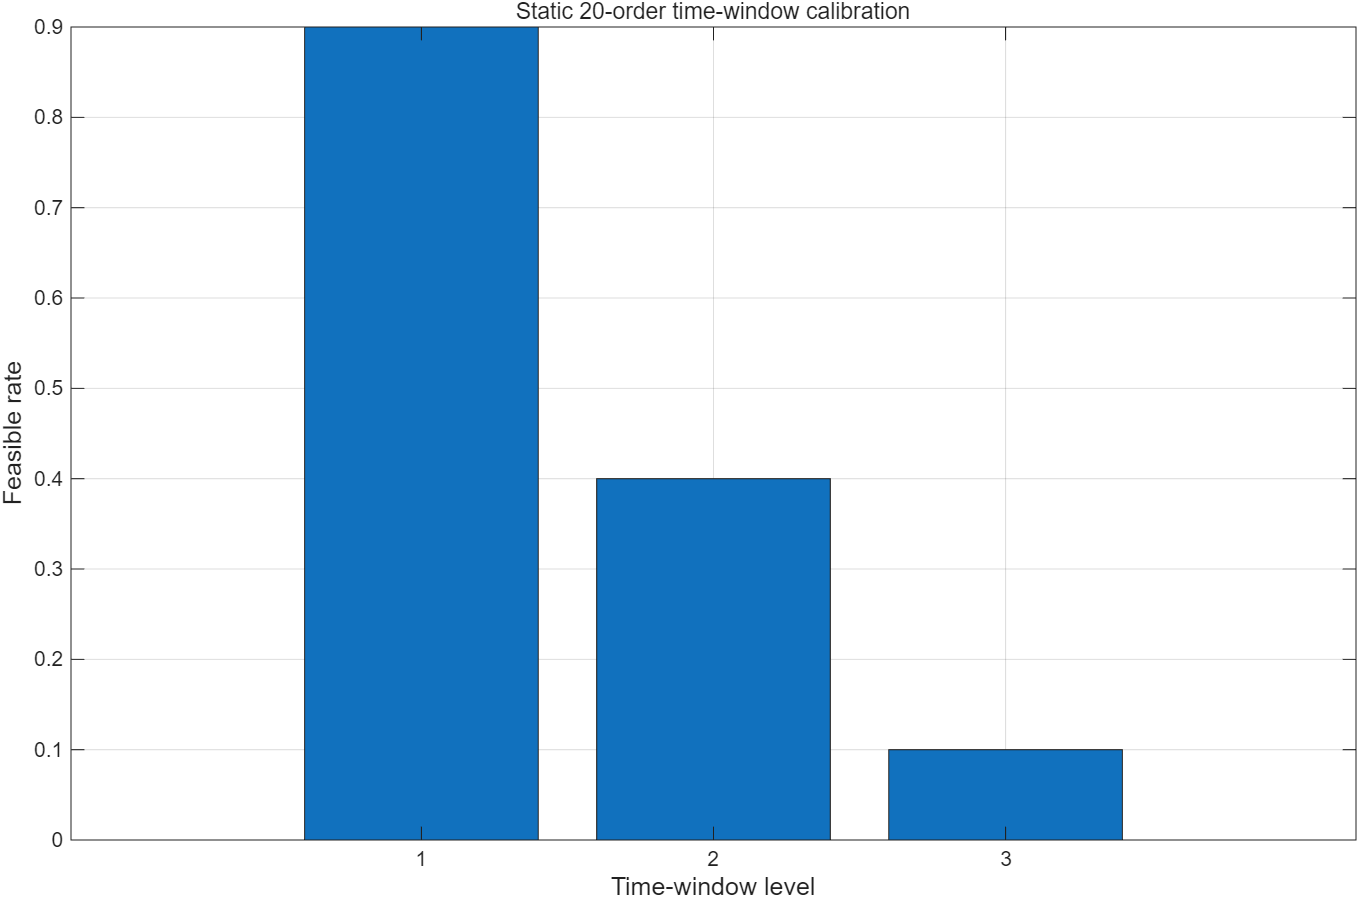
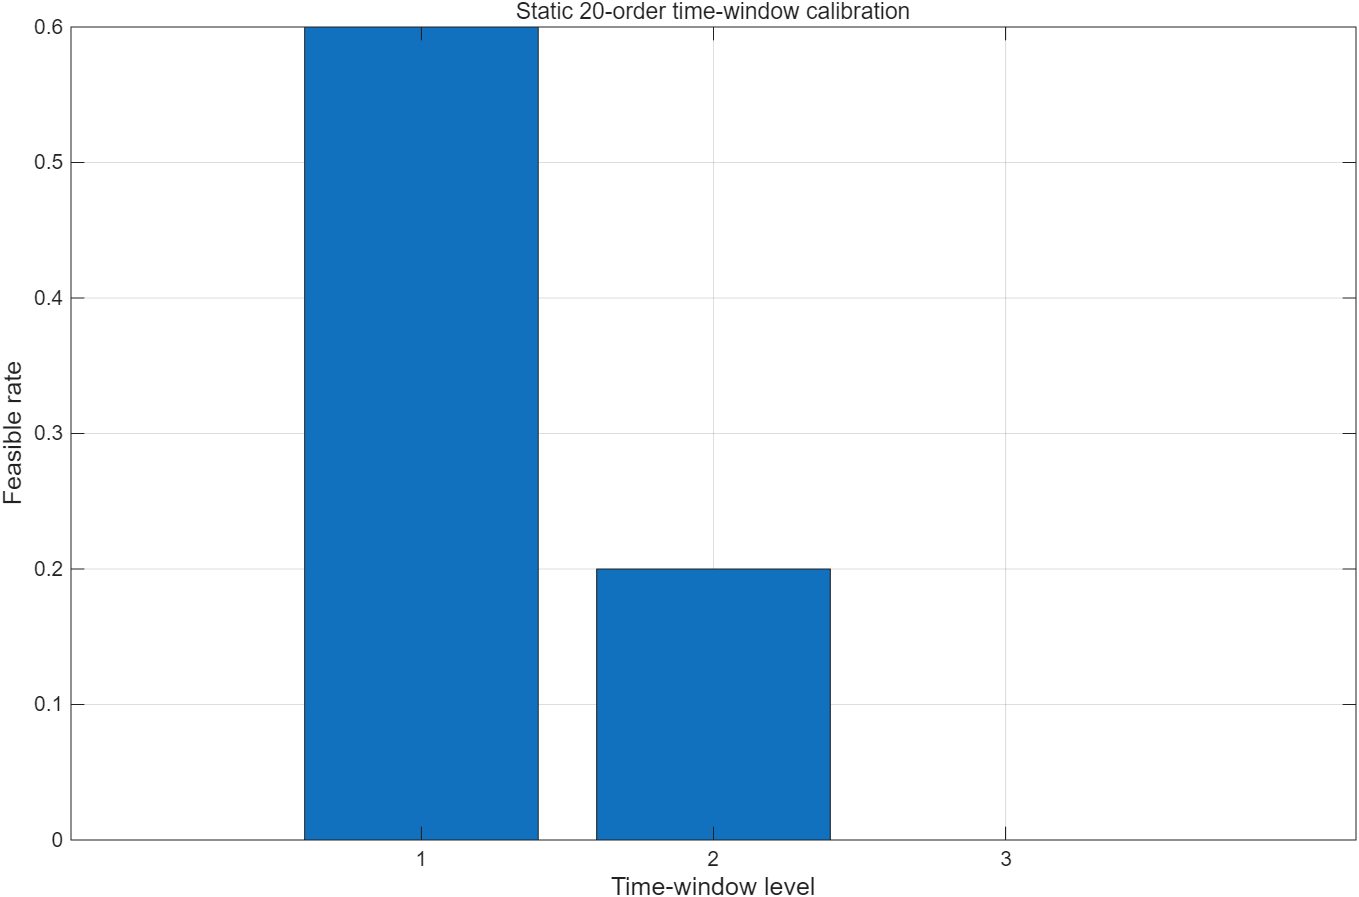
Strengthen terrain and obstacle baseline

diff --git a/main.m b/main.m
@@ -75,4 +75,38 @@ fprintf('Post-event orders:  %d\n',length(eventState.activeIDs));
 fprintf('Post-event cost:    %.3f\n',Best1.Cost);
 fprintf('Post-event distance:%.3f\n',Best1.Detail.distance);
 fprintf('Post-event late:    %.3f\n',Best1.Detail.totalLate);
+nDetour0 = 0;
+nTerrain0 = 0;
+nObstacle0 = 0;
+for i = 1:length(Best0.Detail.paths)
+    if size(Best0.Detail.paths{i}.points,1) > 2
+        nDetour0 = nDetour0 + 1;
+    end
+    if Best0.Detail.paths{i}.directTerrainViolation > 0
+        nTerrain0 = nTerrain0 + 1;
+    end
+    if Best0.Detail.paths{i}.directObstacleViolation > 0
+        nObstacle0 = nObstacle0 + 1;
+    end
+end
+nDetour1 = 0;
+nTerrain1 = 0;
+nObstacle1 = 0;
+for i = 1:length(Best1.Detail.paths)
+    if size(Best1.Detail.paths{i}.points,1) > 2
+        nDetour1 = nDetour1 + 1;
+    end
+    if Best1.Detail.paths{i}.directTerrainViolation > 0
+        nTerrain1 = nTerrain1 + 1;
+    end
+    if Best1.Detail.paths{i}.directObstacleViolation > 0
+        nObstacle1 = nObstacle1 + 1;
+    end
+end
 fprintf('Post-event feasible: %d\n',Best1.Detail.feasible);
+fprintf('Initial detour legs: %d\n',nDetour0);
+fprintf('Initial terrain-blocked direct legs: %d\n',nTerrain0);
+fprintf('Initial obstacle-blocked direct legs: %d\n',nObstacle0);
+fprintf('Post-event detour legs: %d\n',nDetour1);
+fprintf('Post-event terrain-blocked direct legs: %d\n',nTerrain1);
+fprintf('Post-event obstacle-blocked direct legs: %d\n',nObstacle1);

diff --git a/CreateModel.m b/CreateModel.m
@@ -33,9 +33,9 @@ x = linspace(0,cfg.mapSize(1),51);
 y = linspace(0,cfg.mapSize(2),51);
 [model.X,model.Y] = meshgrid(x,y);
 model.terrainZ = 1 ...
-    + 5*exp(-((model.X-25).^2+(model.Y-25).^2)/500) ...
-    + 6*exp(-((model.X-70).^2+(model.Y-35).^2)/700) ...
-    + 4*exp(-((model.X-55).^2+(model.Y-78).^2)/450) ...
+    + 7*exp(-((model.X-25).^2+(model.Y-25).^2)/350) ...
+    + 9*exp(-((model.X-70).^2+(model.Y-35).^2)/450) ...
+    + 6*exp(-((model.X-55).^2+(model.Y-78).^2)/320) ...
     + 0.6*sin(model.X/18).*cos(model.Y/22);
 model.terrainZ = max(model.terrainZ,0);
 
@@ -56,11 +56,11 @@ model.depot = [model.depotXY ...
     + model.serviceHeight];
 
 %% Fixed cylindrical buildings
-obstacleData = [58 15 5 14; ...
+obstacleData = [50 20 5 14; ...
                 72 20 5 16; ...
                 82 40 6 20; ...
                 66 55 5 18; ...
-                70 90 6 16; ...
+                75 88 6 16; ...
                 82 72 6 20; ...
                 25 60 4 14; ...
                 34 25 4 12];

diff --git a/PlotSolution.m b/PlotSolution.m
@@ -19,13 +19,14 @@ for i = 1:length(model.obstacles)
     Y = Y + obs.y;
     Z = obs.zMin + Z*(obs.zMax-obs.zMin);
     if i == 1
-        displayName = 'Cylindrical obstacle';
+        surf(X,Y,Z,'FaceColor',[0.75 0.25 0.25], ...
+            'FaceAlpha',0.55,'EdgeColor','none', ...
+            'DisplayName','Cylindrical obstacle');
     else
-        displayName = '';
+        surf(X,Y,Z,'FaceColor',[0.75 0.25 0.25], ...
+            'FaceAlpha',0.55,'EdgeColor','none', ...
+            'HandleVisibility','off');
     end
-    surf(X,Y,Z,'FaceColor',[0.75 0.25 0.25], ...
-        'FaceAlpha',0.55,'EdgeColor','none', ...
-        'DisplayName',displayName);
 end
 
 plot3(detail.points(:,1),detail.points(:,2),detail.points(:,3), ...

diff --git a/Plan3DPath.m b/Plan3DPath.m
@@ -10,6 +10,9 @@ direct = EvaluatePath(pathList{1},model);
 if direct.isFeasible
     path = direct;
     path.points = pathList{1};
+    path.usedDetour = false;
+    path.directTerrainViolation = direct.terrainViolation;
+    path.directObstacleViolation = direct.obstacleViolation;
     return
 end
 
@@ -47,6 +50,9 @@ for i = 1:length(pathList)
 end
 
 path = best;
+path.usedDetour = true;
+path.directTerrainViolation = direct.terrainViolation;
+path.directObstacleViolation = direct.obstacleViolation;
 end
 
 function result = EvaluatePath(points,model)

diff --git a/README_CN.md b/README_CN.md
@@ -72,4 +72,4 @@ results/baseline_route_3D.png
 results/baseline_replanning_convergence.png
 ```
 
-动态校准结果为：eventTime=15/25/35 时，事件后活动订单数为 14/13/11，Restart-PSO 可行率为 0.30/0.30/0.40。当前默认使用 eventTime=35，使事件后仍保留约 11 个活动订单。当前基础算法只做随机初始化和标准 PSO 更新，后续算法改进将在这个干净 baseline 上单独增加。
+当前地形峰值已适度增强，障碍物仍保持 8 个并向配送区域内部调整。动态校准结果为：eventTime=15/25/35 时，事件后活动订单数为 14/13/11，Restart-PSO 可行率为 0.20/0.10/0.60。主程序还输出绕障航段数、直线受地形阻挡航段数和直线受障碍物阻挡航段数。当前默认使用 eventTime=35，使事件后仍保留约 11 个活动订单。当前基础算法只做随机初始化和标准 PSO 更新，后续算法改进将在这个干净 baseline 上单独增加。
